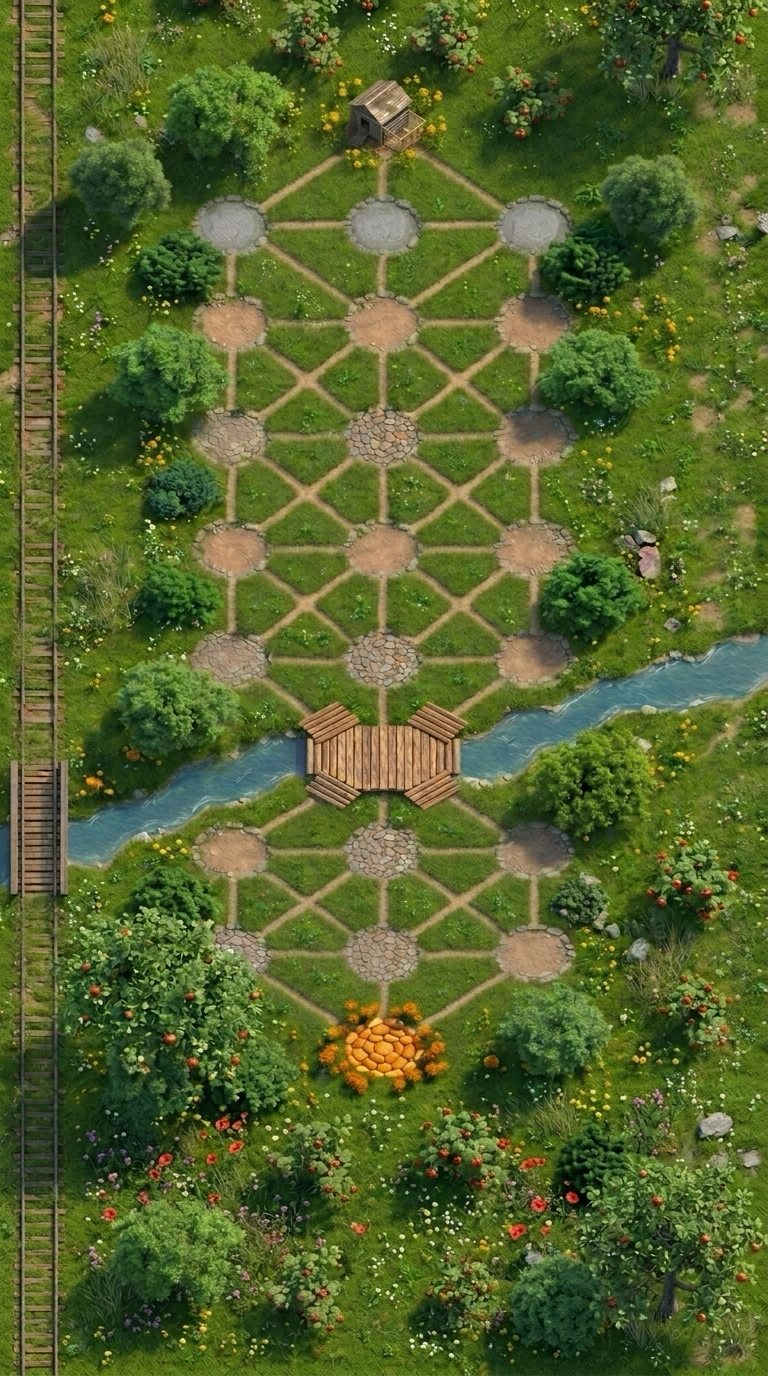
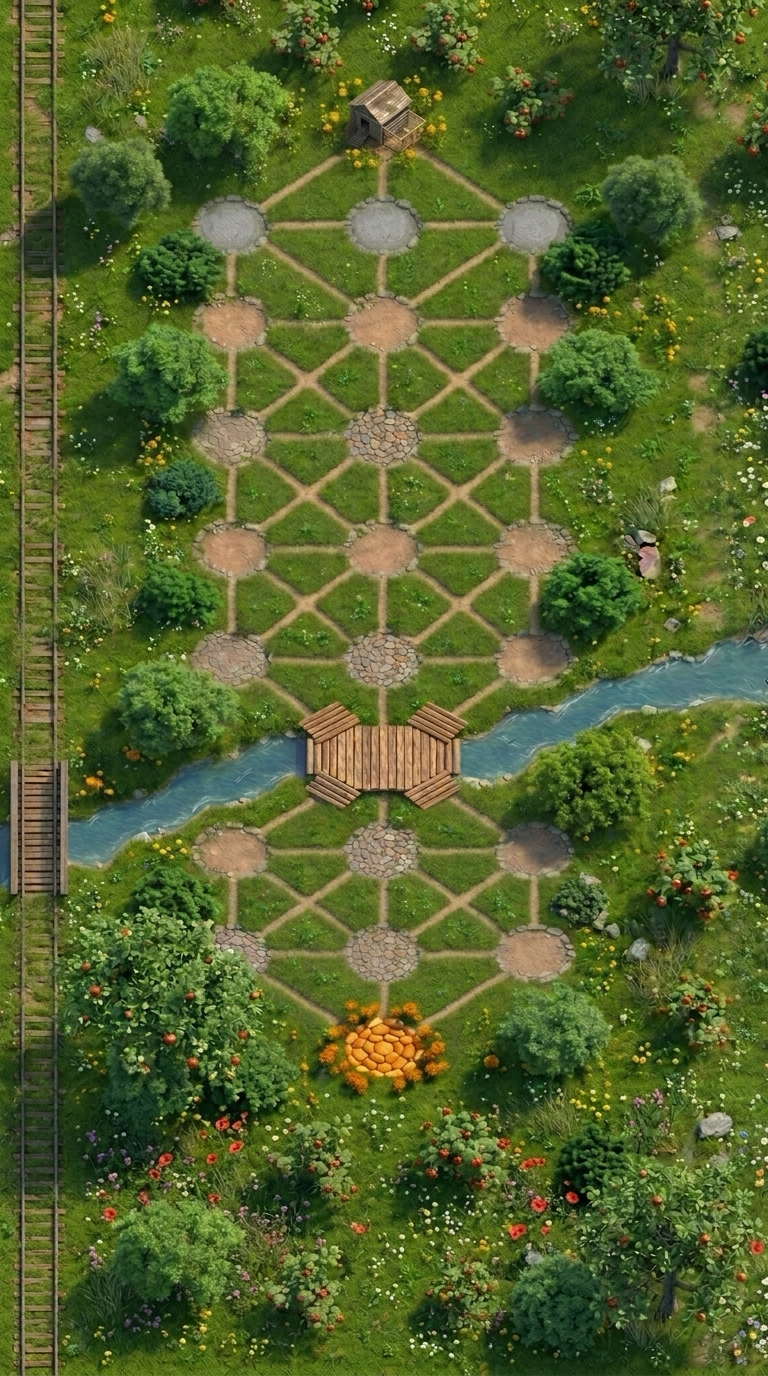
update board_right

Changed region(s): [[0.9062, 0.0, 1.0, 0.7188], [0.9375, 0.8125, 1.0, 1.0]]

diff --git a/src/ui/camera.rs b/src/ui/camera.rs
@@ -340,7 +340,7 @@ impl ViewportCamera {
         let cur_board_size = base_board_size * self.zoom;
         let pad = 12.0 * scale;
         let left_ext = 384.0 * base_board_scale * self.zoom;
-        let right_ext = 384.0 * base_board_scale * self.zoom;
+        let right_ext = 256.0 * base_board_scale * self.zoom;
 
         if !self.initialized {
             self.pan_offset.x = (viewport_rect.w - cur_board_size.x) / 2.0;

diff --git a/src/ui/board_view.rs b/src/ui/board_view.rs
@@ -14,7 +14,7 @@ pub fn roll_sit_threshold() -> f32 {
 }
 
 pub const BOARD_LEFT_WIDTH: f32 = 384.0;
-pub const BOARD_RIGHT_WIDTH: f32 = 384.0;
+pub const BOARD_RIGHT_WIDTH: f32 = 256.0;
 
 pub struct BoardView {
     pub board_texture: Option<Texture2D>,
